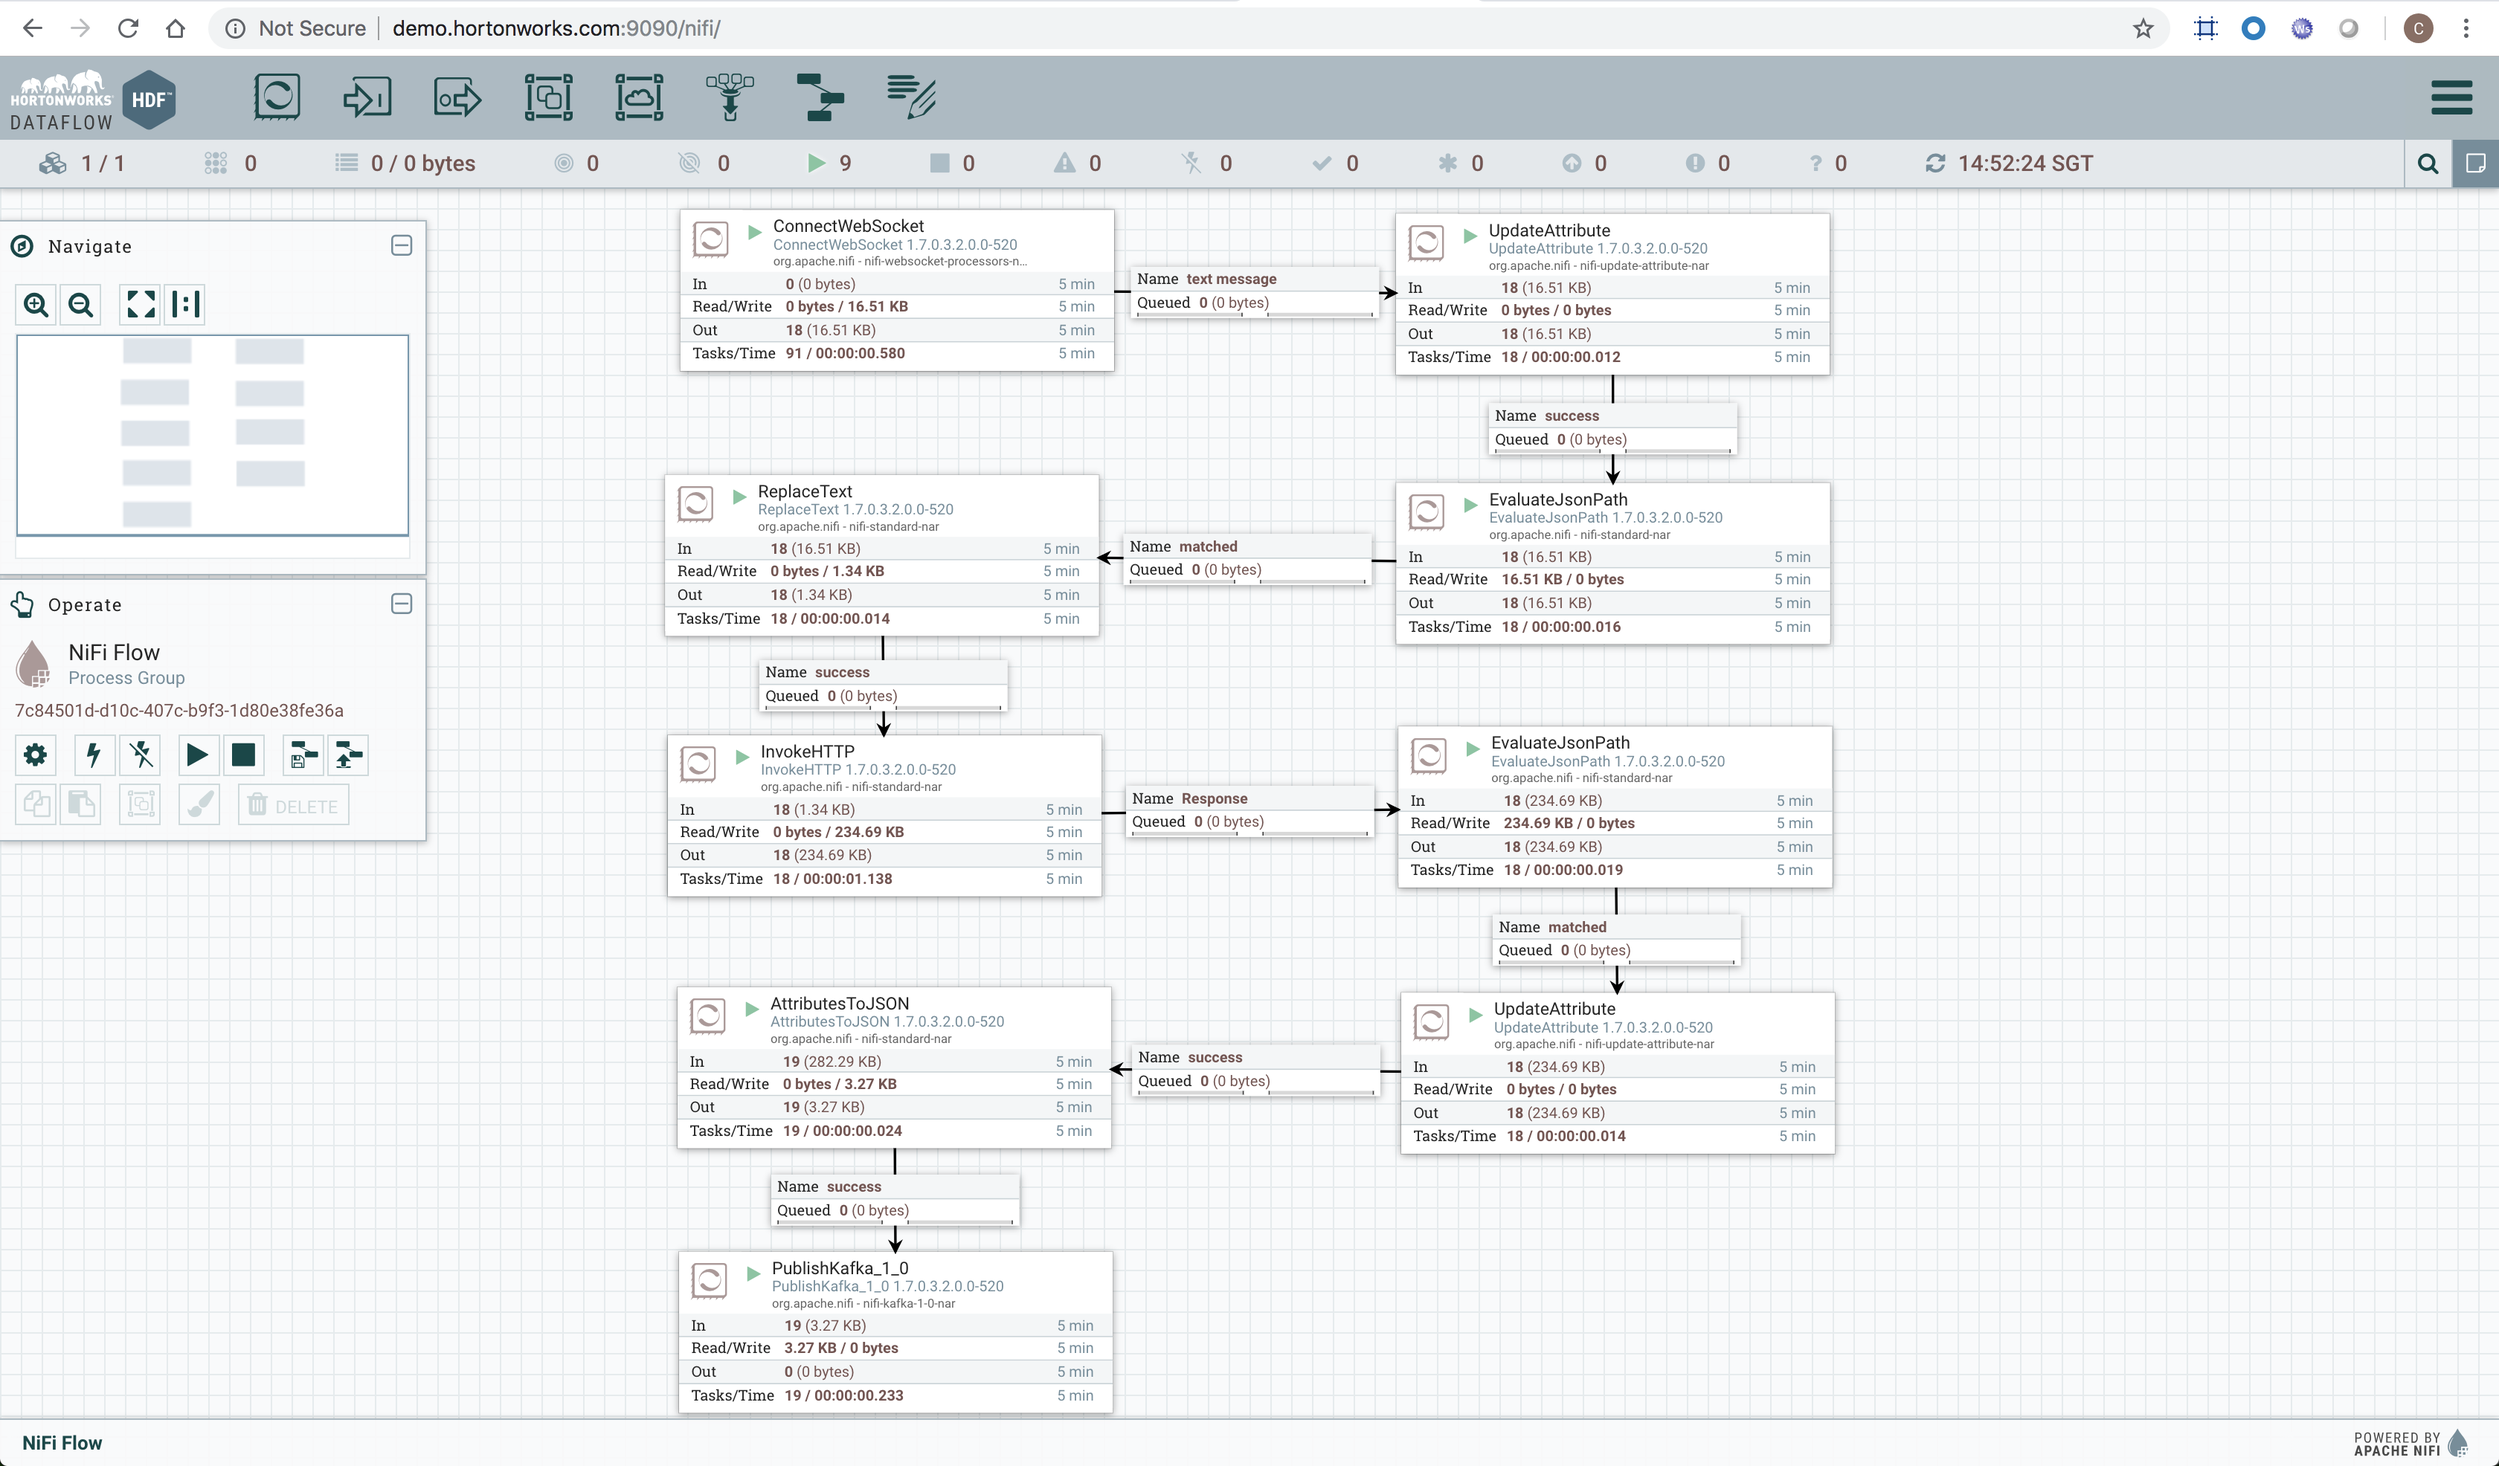
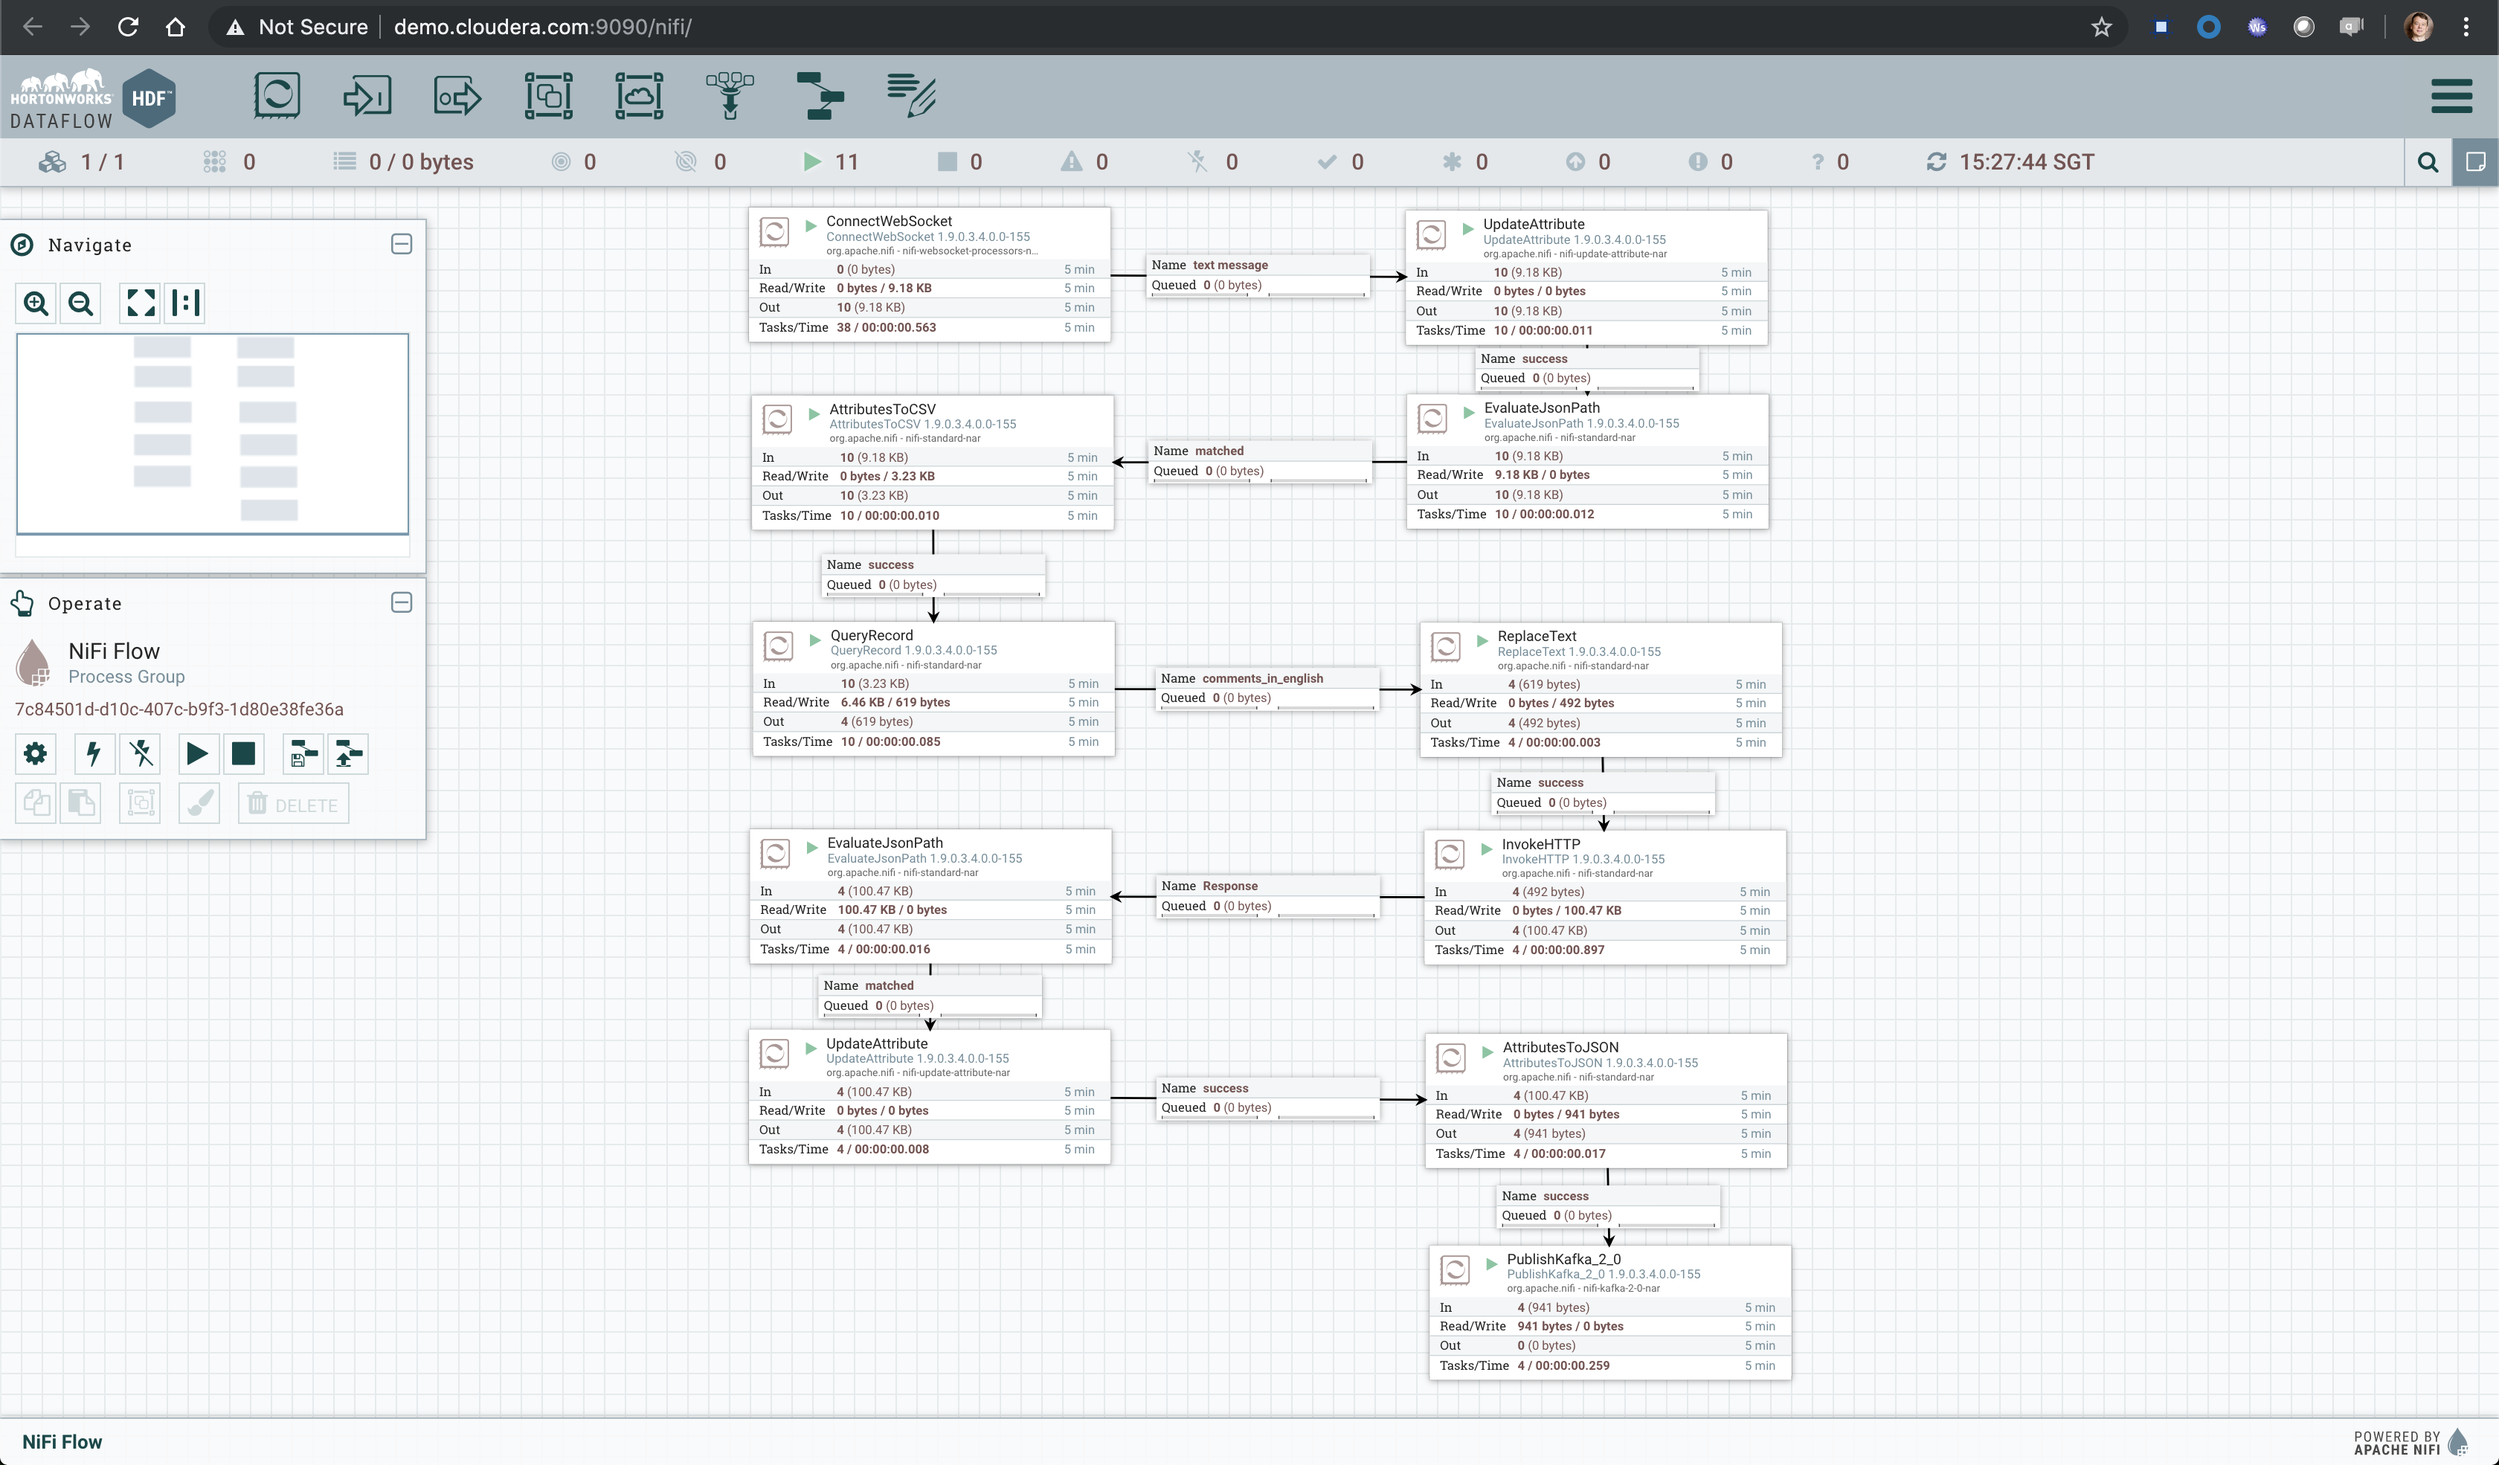
update

diff --git a/README.md b/README.md
@@ -357,30 +357,26 @@ The model will classify the given text into 5 categories:
 
 ### Enhance the Meetup comments with sentiment analysis outcome 
 
-Go back to [NiFi UI](http://demo.cloudera.com:9090/nifi/) and follow the steps below:
+Go back to [NiFi UI](http://demo.cloudera.com:9090/nifi/) and follow the steps below. Between the QueryRecord and PublishKafka_2_0 processors we are going to enhance the Meetup comment with NLP.
 
-- Step 1: Remove no longer needed processor from previous flow
-  - Right click on the relationship between EvaluateJsonPath and AttibutesToCSV processors and delete
-  - Delete the AttibutesToCSV processor
-  - Do the same for the PutFile processor
-  
-- Step 2: Prepare the content to be posted to the sentiment analysis service
-  - Add ReplaceText processor and link from EvaluateJSonPath on **matched** relationship
+- Step 1: Prepare the content to be posted to the sentiment analysis service
+  - Add ReplaceText processor and link from QueryRecord on **comments_in_english** relationship
+  - Keep the PublishKafka_2_0 processor on the canvas unlinked from/to other processors for now
   - Double click on processor and check **failure** on settings tab
   - Go to properties tab and remove value for **Search Value** and set it to empty string
   - Set **Replacement Value** with value: **${comment:replaceAll('\\.', ';')}**. We want to make sure the entire comment is evaluated as one sentence instead of one evaluation per sentence within the same comment.
   - Set **Replacement Strategy** to **Always Replace**
   - Apply changes
   
-- Step 3: Call the web service started earlier on incoming message
+- Step 2: Call the web service started earlier on incoming message
   - Add InvokeHTTP processor and link from ReplaceText on **success** relationship
   - Double click on processor and check all relationships except **Response** on settings tab
   - Go to properties tab and set value for **HTTP Method** to **POST**
-  - Set **Remote URL** with value: ```http://demo.cloudera.com:9999/?properties=%7B%22annotators%22%3A%22sentiment%22%2C%22outputFormat%22%3A%22json%22%7D``` which is the url encoded value for ```http://demo.cloudera.com:9999/?properties={"annotators":"sentiment","outputFormat":"json"}```
+  - Set **Remote URL** with value: ```http://demo.cloudera.com:9999/?properties=%7B%22annotators%22%3A%22sentiment%22%2C%22outputFormat%22%3A%22json%22%7D``` which is the url encoded value for ***http://demo.cloudera.com:9999/?properties={"annotators":"sentiment","outputFormat":"json"}***
   - Set **Content-Type** to **application/x-www-form-urlencoded**
   - Apply changes
   
-- Step 4: Add EvaluateJsonPath to the canvas and link from InvokeHTTP on **Response** relationship
+- Step 3: Add EvaluateJsonPath to the canvas and link from InvokeHTTP on **Response** relationship
   - Double click on the processor
   - On settings tab, check both **failure** and **unmatched** relationships
   - On properties tab
@@ -388,11 +384,11 @@ Go back to [NiFi UI](http://demo.cloudera.com:9090/nifi/) and follow the steps b
   - Add on the property **sentiment** with value **$.sentences[0].sentiment**
   - Apply changes
   
-- Step 5: Format post time to comply with [ISO format](https://en.wikipedia.org/wiki/ISO_8601) (Druid requirement)
+- Step 4: Format post time to comply with [ISO format](https://en.wikipedia.org/wiki/ISO_8601) (Druid requirement)
   - Add UpdateAttribute processor and link from EvaluateJsonPath on **matched** relationship
   - Using handy [NiFi's language expression](https://nifi.apache.org/docs/nifi-docs/html/expression-language-guide.html#dates), add a new attribue ```__time``` with value: ```${timestamp:format("yyyy-MM-dd'T'HH:mm:ss'Z'", "Asia/Singapore")}``` to properties tab
 
-- Step 6: Add AttributesToJSON processor to prepare the message to be published to the Kafka topic created before. Link from UpdateAttribute.
+- Step 5: Add AttributesToJSON processor to prepare the message to be published to the Kafka topic created before. Link from UpdateAttribute.
   - Double click on processor
   - On settings tab, check **failure** relationship
   - Go to properties tab
@@ -401,14 +397,7 @@ Go back to [NiFi UI](http://demo.cloudera.com:9090/nifi/) and follow the steps b
   - Set Include Core Attributes to **false**
   - Apply changes
   
-- Step 7: Last step, add a **PublishKafka_2_0** connector to the canvas and link from AttributesToJSON on **success** relationship
-  - Double click on the processor
-  - On settings tab, check all relationships
-  - On properties tab
-  - Change **Kafka Brokers** value to **demo.cloudera.com:6667**
-  - Change **Topic Name** value to **meetup_comment_ws**
-  - Change **Use Transactions** value to **false**
-  - Apply changes
+- Step 6: Last step, link existing **PublishKafka_2_0** connector to the canvas from AttributesToJSON on **success** relationship
   
 Before starting the NiFi flow make sure that the [sentiment analysis Web service](https://github.com/charlesb/CDF-workshop#run-the-sentiment-analysis-model-as-a-rest-like-service) is running
 	
